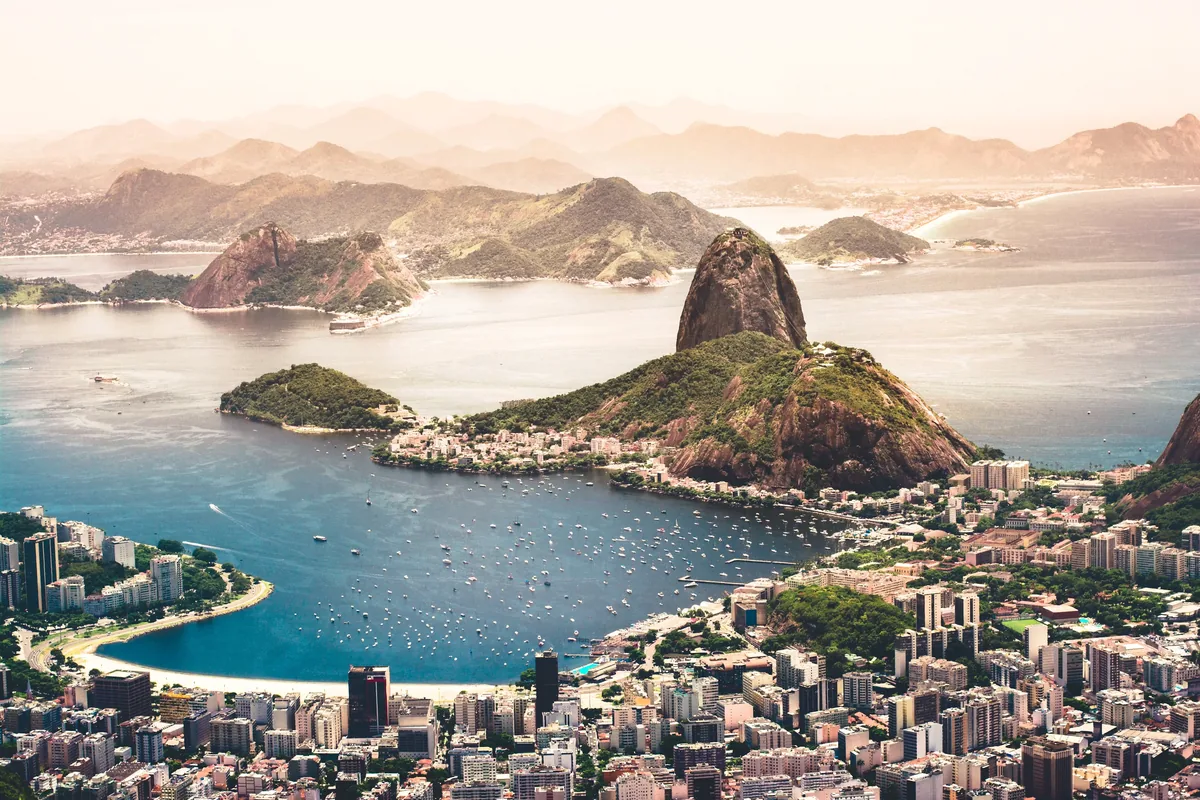
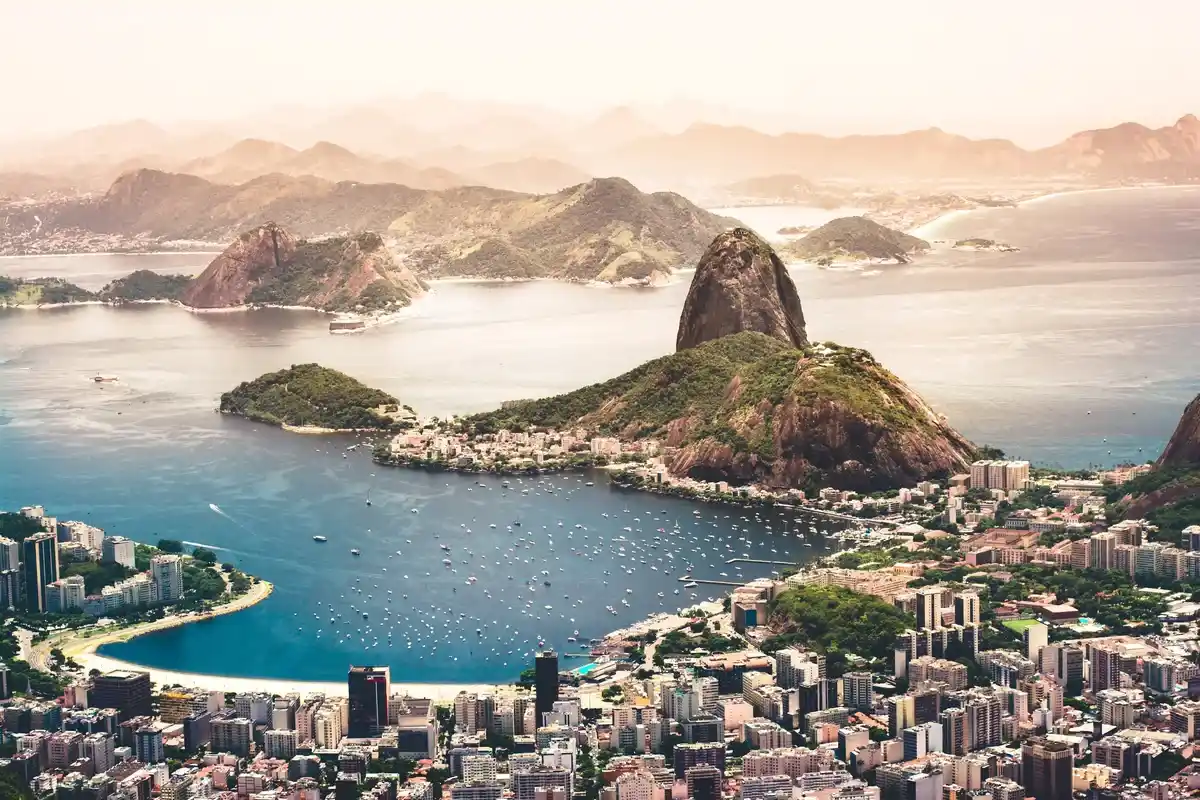
fix: audit

diff --git a/local.html b/local.html
@@ -19,55 +19,56 @@
   <header class="local-header">
     <h1>Brasil</h1>
   </header>
-  <div class="hero-section">
-    <picture>
-      <source
-        media="(min-width: 768px)"
-        srcset="imagens/brasil-large.webp"
-        width="1200"
-        height="800"
-      >
-      <img
-        class="hero-img"
-        src="imagens/brasil-small.webp"
-        srcset="imagens/brasil-small.webp 480w, imagens/brasil-large.webp 1200w"
-        sizes="(min-width: 768px) 100vw, 100vw"
-        alt="Paisagem do Brasil com natureza exuberante — floresta e céu azul"
-        width="480"
-        height="320"
-      >
-    </picture>
-    <section class="panel panel-data" aria-labelledby="dados-titulo">
-      <h2 id="dados-titulo">Dados</h2>
-      <dl class="info-list">
-        <dt>Área</dt><dd>8,51 mi. km²</dd>
-        <dt>População</dt><dd>~215 milhões</dd>
-        <dt>Capital</dt><dd>Brasília</dd>
-        <dt>Idioma</dt><dd>Português</dd>
-        <dt>Moeda</dt><dd>Real (BRL)</dd>
-        <dt>Fuso</dt><dd>UTC-3</dd>
-        <dt>Código</dt><dd>+55</dd>
-        <dt>TLD</dt><dd>.br</dd>
-      </dl>
-    </section>
-    <section class="panel panel-weather" aria-labelledby="clima-titulo">
-      <h2 id="clima-titulo" class="weather-title">Clima</h2>
-      <img
-        class="weather-icon-mobile"
-        src="imagens/clima-icon.svg"
-        alt="Ícone de clima parcialmente nublado"
-        width="72"
-        height="72"
-        aria-hidden="true"
-      >
-      <dl class="info-list">
-        <dt>Temperatura</dt><dd id="temperatura">8 °C</dd>
-        <dt>Condição</dt><dd>Parcialmente nublado</dd>
-        <dt>Vento</dt><dd id="vento">20 km/h</dd>
-        <dt>Sensação Térmica</dt><dd id="sensacao-termica">--</dd>
-      </dl>
-    </section>
-  </div>
+  <main>
+    <div class="hero-section">
+      <picture>
+        <source
+          media="(min-width: 768px)"
+          srcset="imagens/brasil-large.webp"
+          sizes="100vw"
+        >
+        <img
+          class="hero-img"
+          src="imagens/brasil-small.webp"
+          srcset="imagens/brasil-small.webp 480w, imagens/brasil-large.webp 1200w"
+          sizes="(min-width: 768px) 100vw, 100vw"
+          alt="Paisagem do Brasil com natureza exuberante — floresta e céu azul"
+          width="480"
+          height="320"
+        >
+      </picture>
+      <section class="panel panel-data" aria-labelledby="dados-titulo">
+        <h2 id="dados-titulo">Dados</h2>
+        <dl class="info-list">
+          <dt>Área</dt><dd>8,51 mi. km²</dd>
+          <dt>População</dt><dd>~215 milhões</dd>
+          <dt>Capital</dt><dd>Brasília</dd>
+          <dt>Idioma</dt><dd>Português</dd>
+          <dt>Moeda</dt><dd>Real (BRL)</dd>
+          <dt>Fuso</dt><dd>UTC-3</dd>
+          <dt>Código</dt><dd>+55</dd>
+          <dt>TLD</dt><dd>.br</dd>
+        </dl>
+      </section>
+      <section class="panel panel-weather" aria-labelledby="clima-titulo">
+        <h2 id="clima-titulo" class="weather-title">Clima</h2>
+        <img
+          class="weather-icon-mobile"
+          src="imagens/clima-icon.svg"
+          alt="Ícone de clima parcialmente nublado"
+          width="72"
+          height="72"
+          aria-hidden="true"
+        >
+        <dl class="info-list">
+          <dt>Temperatura</dt><dd id="temperatura">8 °C</dd>
+          <dt>Condição</dt><dd>Parcialmente nublado</dd>
+          <dt>Vento</dt><dd id="vento">20 km/h</dd>
+          <dt>Sensação Térmica</dt><dd id="sensacao-termica">--</dd>
+        </dl>
+      </section>
+    </div>
+  </main>
   <footer class="local-footer">
     <p>&copy; <span id="current-year"></span> Edimilson Lima | Brasil</p>
     <p id="last-modified"></p>